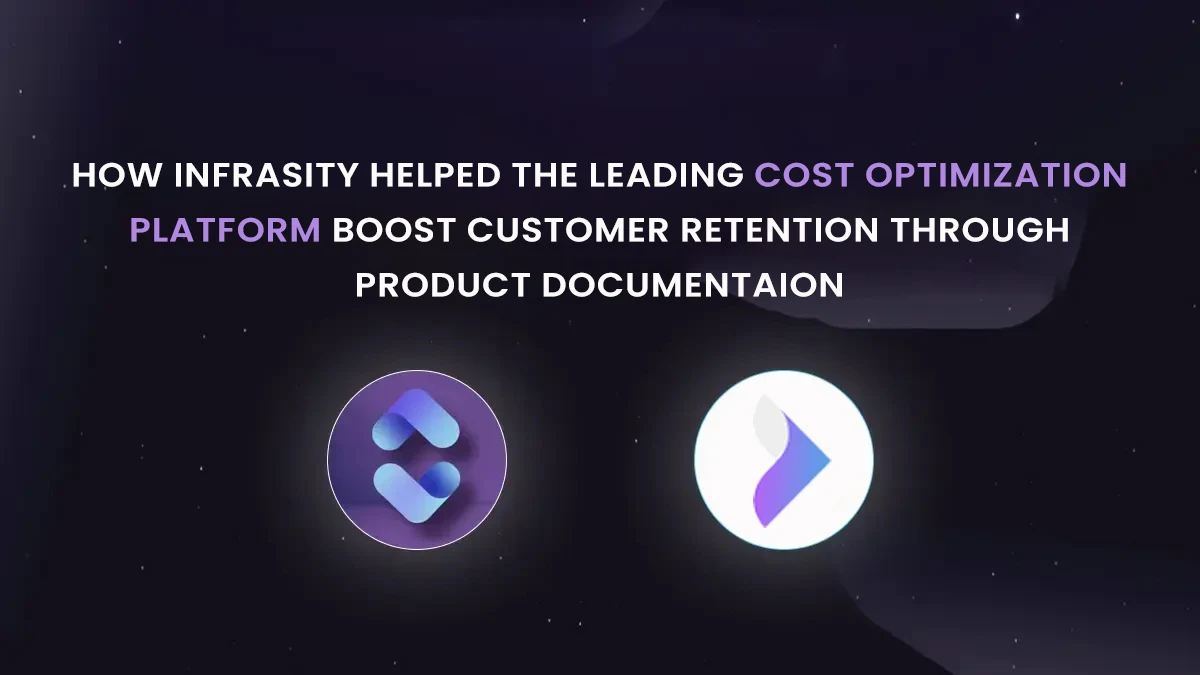
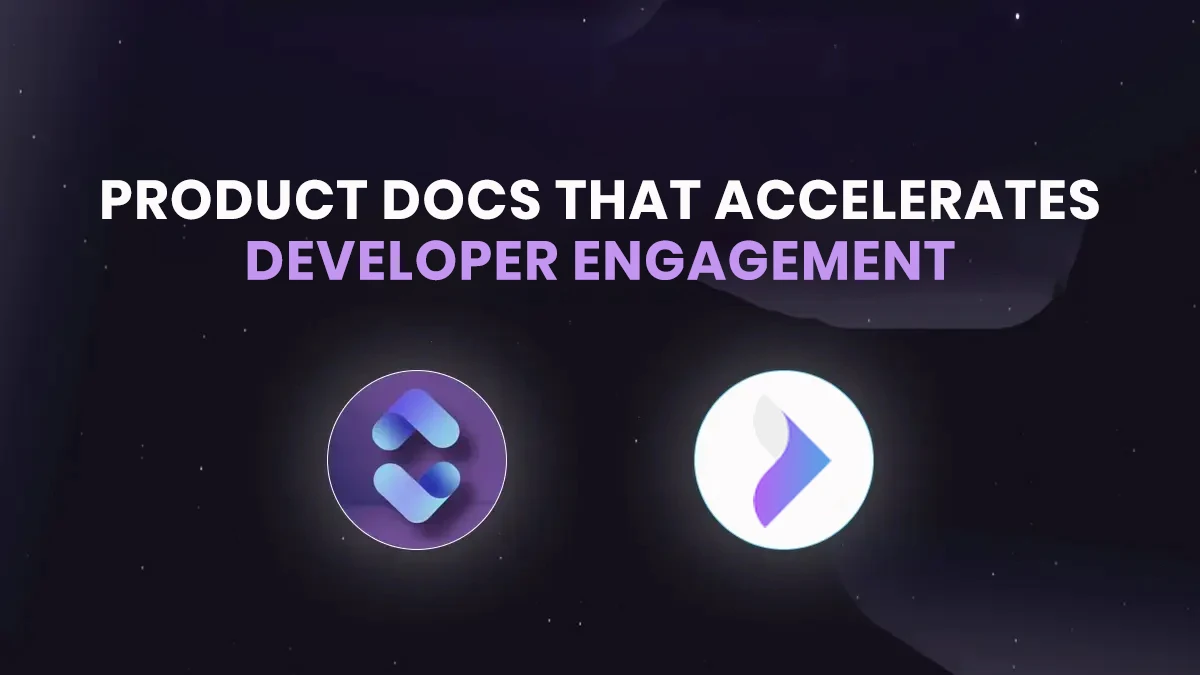
Case studies changes

Changed region(s): [[0.0617, 0.2178, 0.9558, 0.4356]]

diff --git a/posts/_postMetadata.js b/posts/_postMetadata.js
@@ -1270,13 +1270,13 @@ let postMetaData = [
   metaDescription: "Learn how to optimize content for AI search engines like ChatGPT & Perplexity using AEO, structured data, and authority signals. Click the link to learn now."
 },
  {
-  title: "How Infrasity Helped the Leading Cost Optimization Platform Boost Customer Retention Through Product Documentation",
+  title: "How Infrasity Helped the Cost Optimization Platform Boost Developer Engagement Through Product Docs",
   metatitle: "How Better Product Documentation Improved Retention & Adoption",
   slug: "case-study-product-documentation",
-  description:"This case study breaks down how Infrasity partnered with DevZero, one of the fastest-growing Kubernetes cost optimization platforms, to rebuild their entire onboarding and documentation experience from the ground up. By creating practical quick-start templates, how to guides, developer-centric video walkthroughs, and a fully restructured documentation system, Infrasity helped DevZero dramatically reduce onboarding friction, and improve customer retention.",
+  description:"This case study breaks down how Infrasity partnered with DevZero, one of the fastest-growing Kubernetes cost optimization platforms, to rebuild their entire onboarding and documentation experience from the ground up. By creating practical quick-start templates, how to guides, developer-centric video walkthroughs, and a fully restructured documentation system, Infrasity helped DevZero dramatically reduce onboarding friction, and improve developer engagement.",
   ogImage: "/PostImages/case-study-product-documentation/0.webp",
   publishedOn: "2025-11-19",
-  authorId: "author0005",
+  authorId: "author0001",
   category: "Case Studies",
   metaDescription:
     "Learn how Infraisty helped cost optimization platform improve adoption through better docs, how-to guides & templates. Want to boost your product’s growth? Book a call.",

diff --git a/src/app/case-studies/page.jsx b/src/app/case-studies/page.jsx
@@ -45,7 +45,7 @@ const monthArr = [
 
 const CardDiv = React.memo(({ card }) => (
   <Link href={`/case-studies/${card.slug}`} className="">
-    <div className="hover:shadow-2xl hover:scale-105 max-sm:w-72 transition-all duration-200 cursor-pointer card w-96 h-[500px] max-sm:h-[550px] shadow-2xl rounded-md border-[#999] border-2 relative">
+    <div className="hover:shadow-2xl hover:scale-105 max-sm:w-72 transition-all duration-200 cursor-pointer card w-96 h-[540px] max-sm:h-[600px] shadow-2xl rounded-md border-[#999] border-2 relative">
       <div className="p-3">
         <figure className="pb-5">
           <Image
@@ -75,7 +75,7 @@ const CardDiv = React.memo(({ card }) => (
               ? `${card.description.slice(0, 80).trim()} . . .`
               : card.description}
           </p>
-          <div className="flex items-center gap-2 absolute bottom-3">
+          <div className="flex items-center gap-2 absolute bottom-3 my-4">
             <Image
               className="rounded-full"
               src={card.authorImage || "/svgPatterns/profile.svg"}
